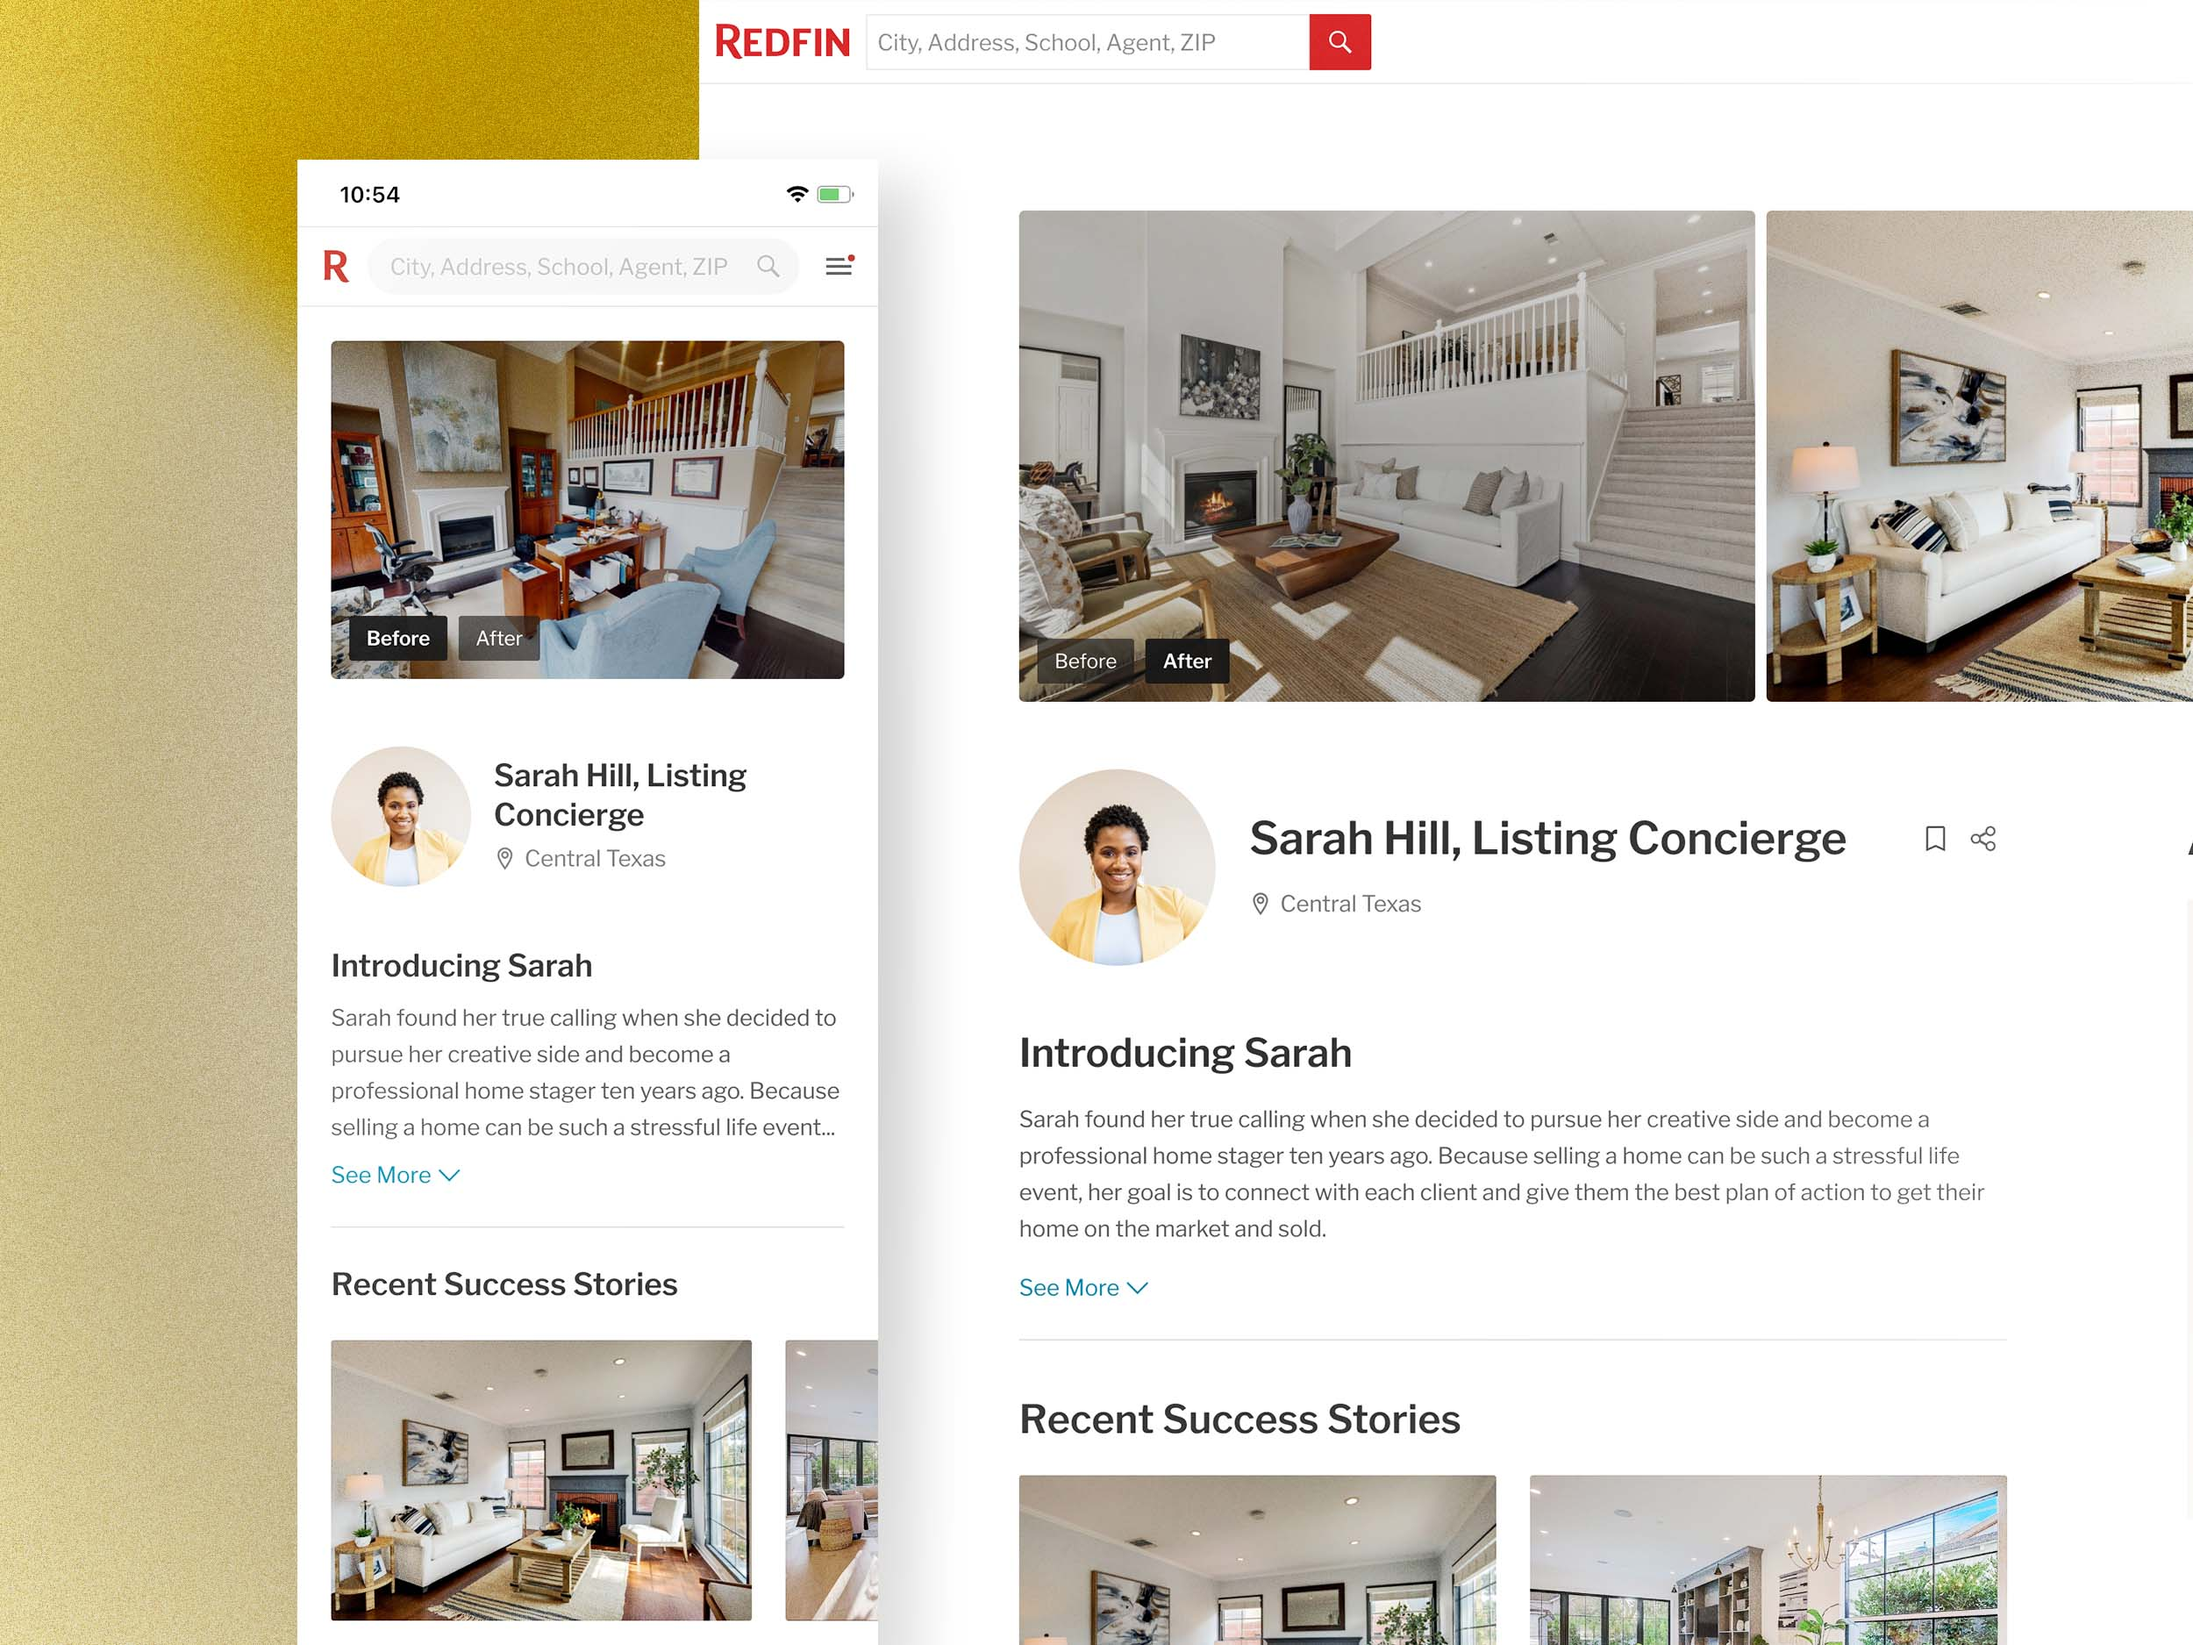
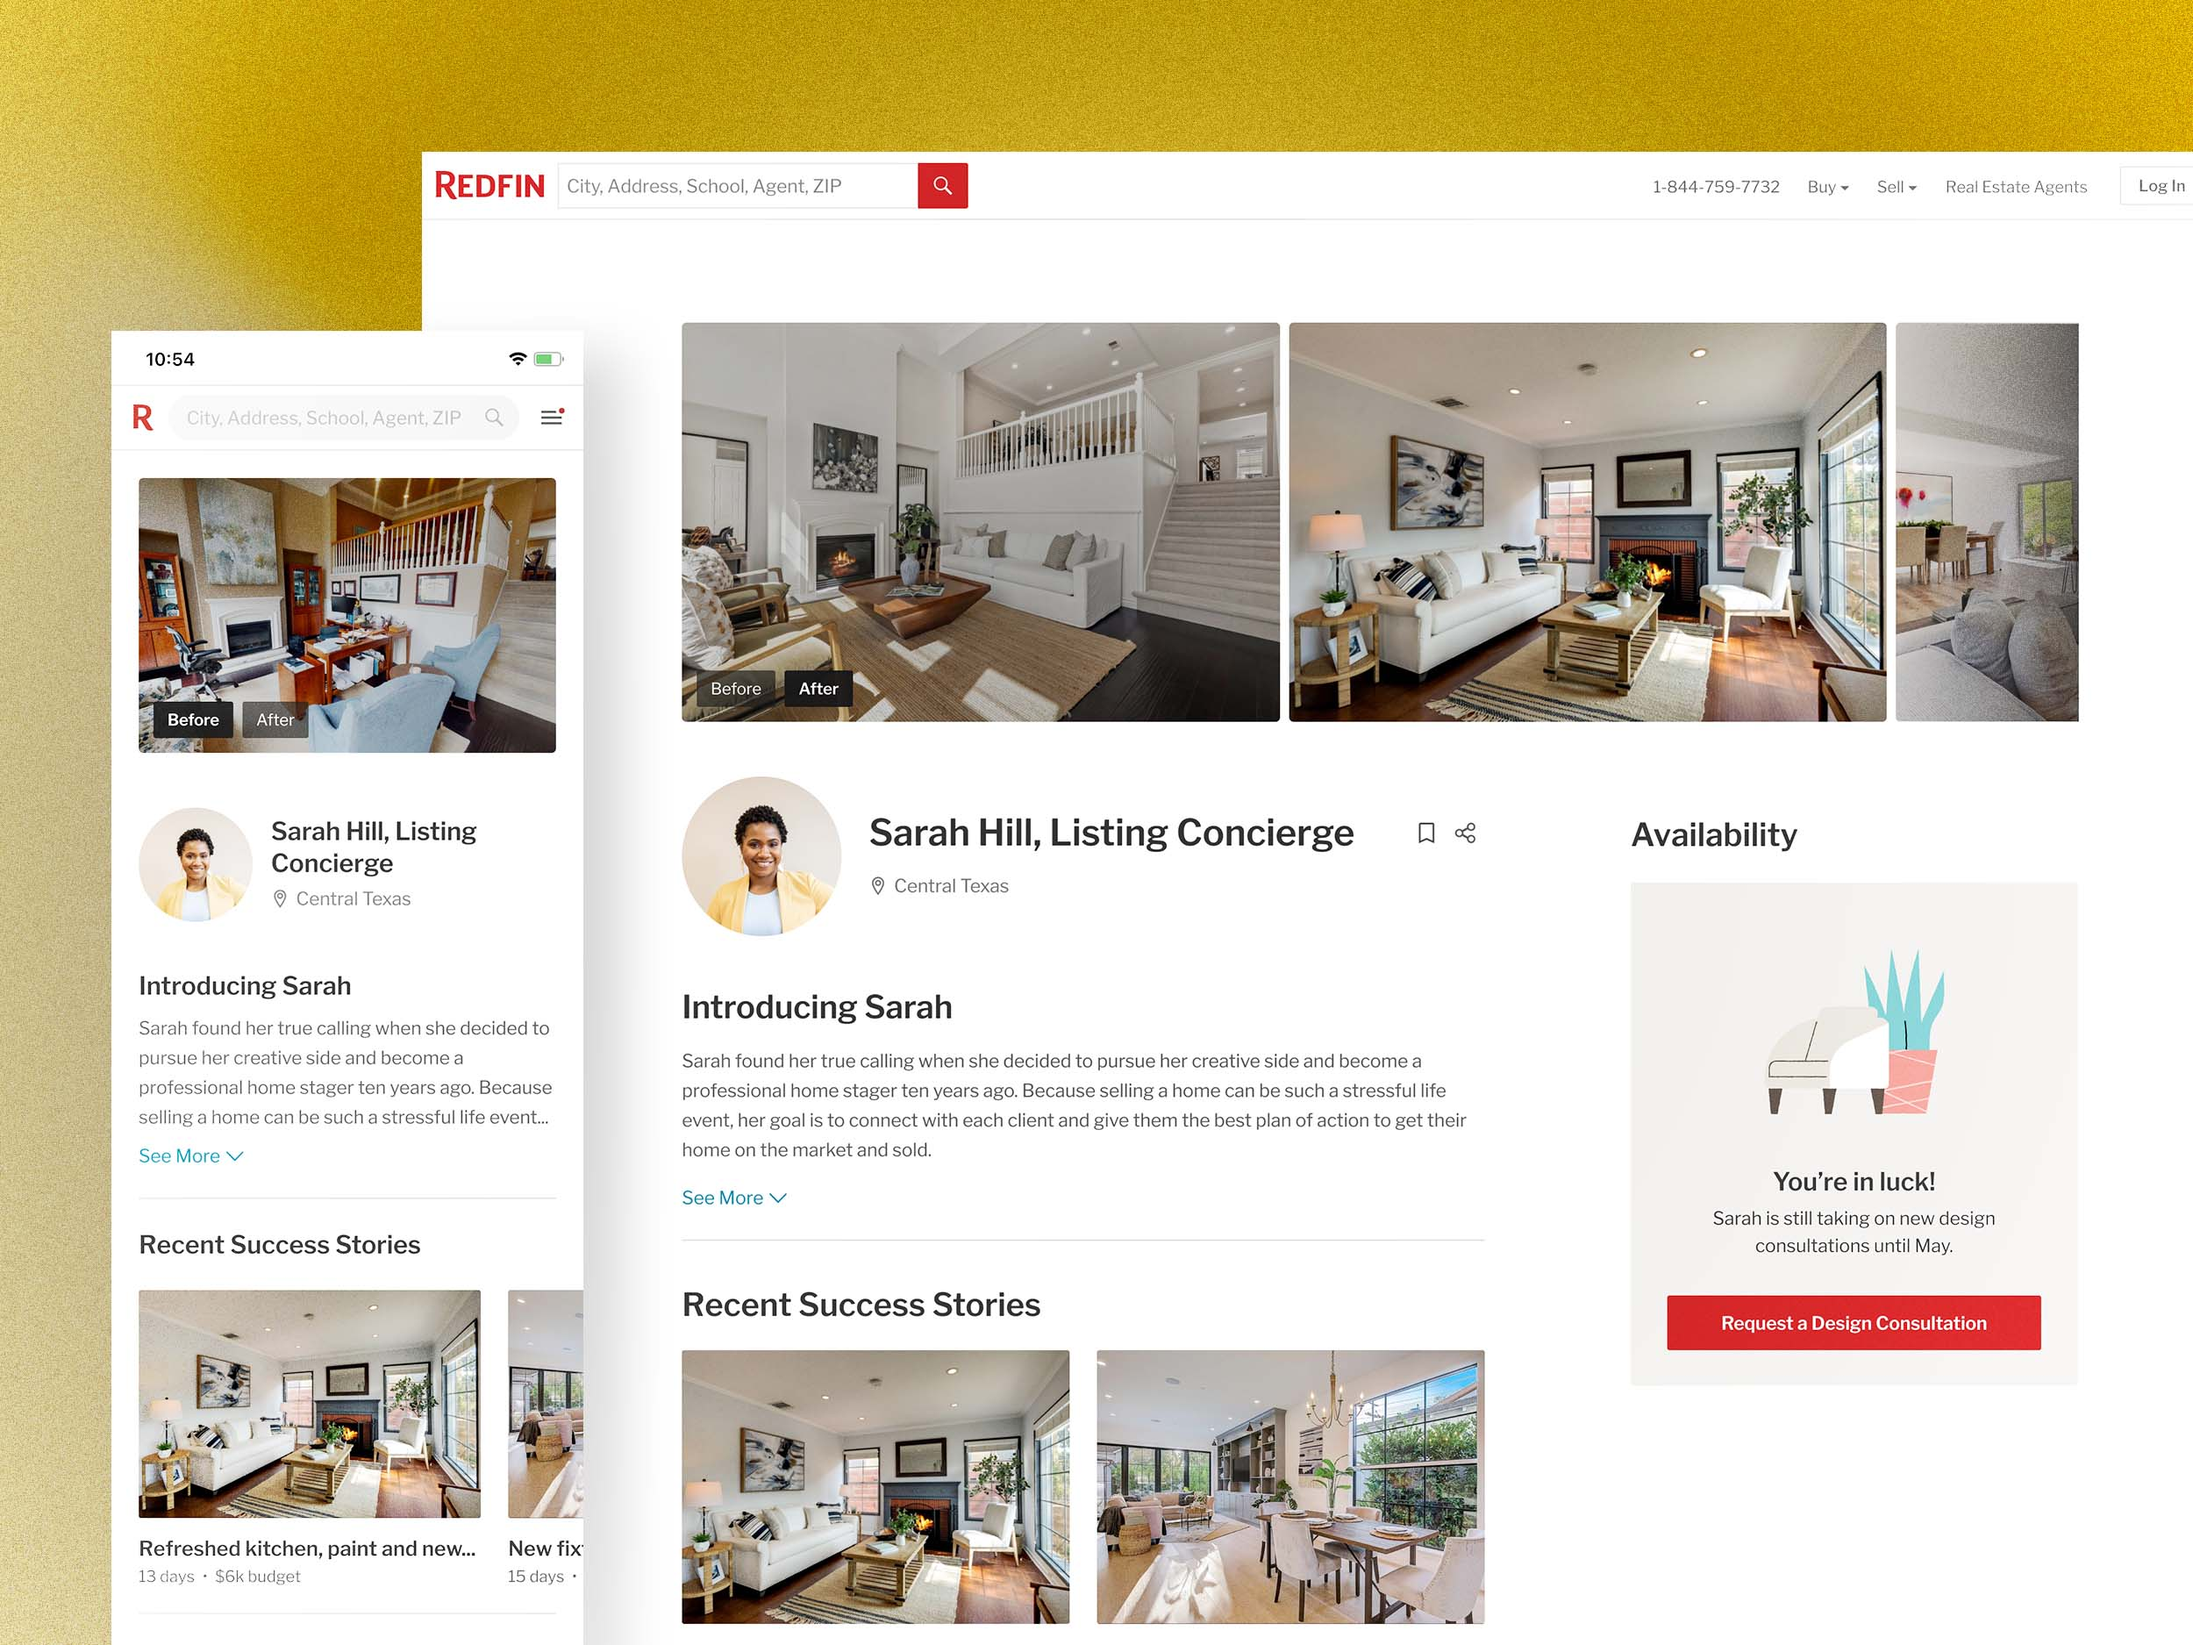
new images
wassssup

diff --git a/projects/redfin-work.html b/projects/redfin-work.html
@@ -58,13 +58,13 @@
 
         <section class="half-width ">
             <article class="project-asset fade-in">
-                <img class="cover-height-img" src="../images/redfin/job-add-note.jpg" alt="">
+                <img class="cover-height-img" src="../images/redfin/move-work-item.jpg" alt="">
 
             </article>
 
             <article class="project-asset fade-in">
 
-                <img class="cover-height-img" src="../images/branding/jquest-circle.jpg" alt="">
+                <img class="cover-height-img" src="../images/redfin/job-add-note.jpg" alt="">
 
             </article>
 
@@ -72,7 +72,7 @@
 
 
         <section class="full-width fade-in">
-            <img class="" src="../images/redfin/project-estimate.jpg" alt="">
+            <img class="" src="../images/redfin/concierge-success-stories.jpg" alt="">
         </section>
 
 

diff --git a/css/style.css b/css/style.css
@@ -13,8 +13,6 @@ body {
 }
 
 
-
-
 /* observer.js below-------*/
 
 .fade-in {
@@ -27,9 +25,7 @@ body {
     opacity: 1;
     transform: translateY(0);
 }
-
 /* observer.js above ------*/
-
 
 
 html {
@@ -38,15 +34,12 @@ html {
 }
 
 :root {
-
     /*fonts */
     --main-font-family: 'Dm Sans';
     --display-font-family: 'Times Now Extralight', 'Times New Roman', sans-serif;
     --header-one-size: 3rem;
     --header-two-size: 2.25rem;
     --header-three-size: 2rem;
-
-
 
     /* colors */
     --clr-light-1: #fff;
@@ -62,14 +55,13 @@ html {
 
     /* greeting animation */
     --bezier: cubic-bezier(.7, .01, 0, 1);
-
 }
 
 h1 {
     letter-spacing: -0.125rem;
 }
 
-h2 {
+.next-project h2 {
     letter-spacing: -0.08rem;
 }
 
